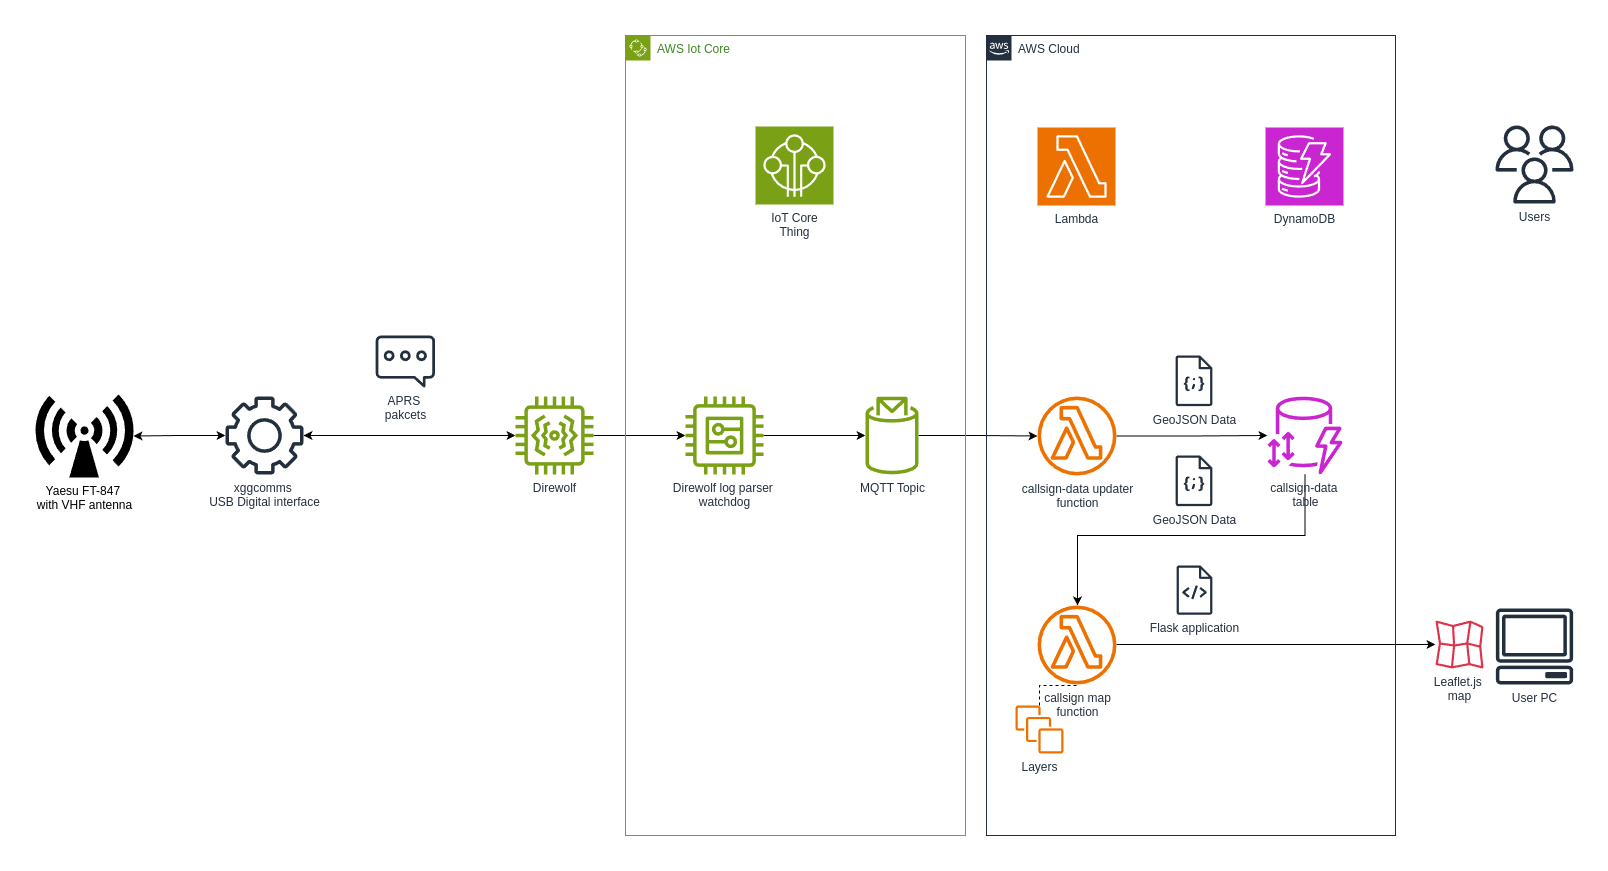
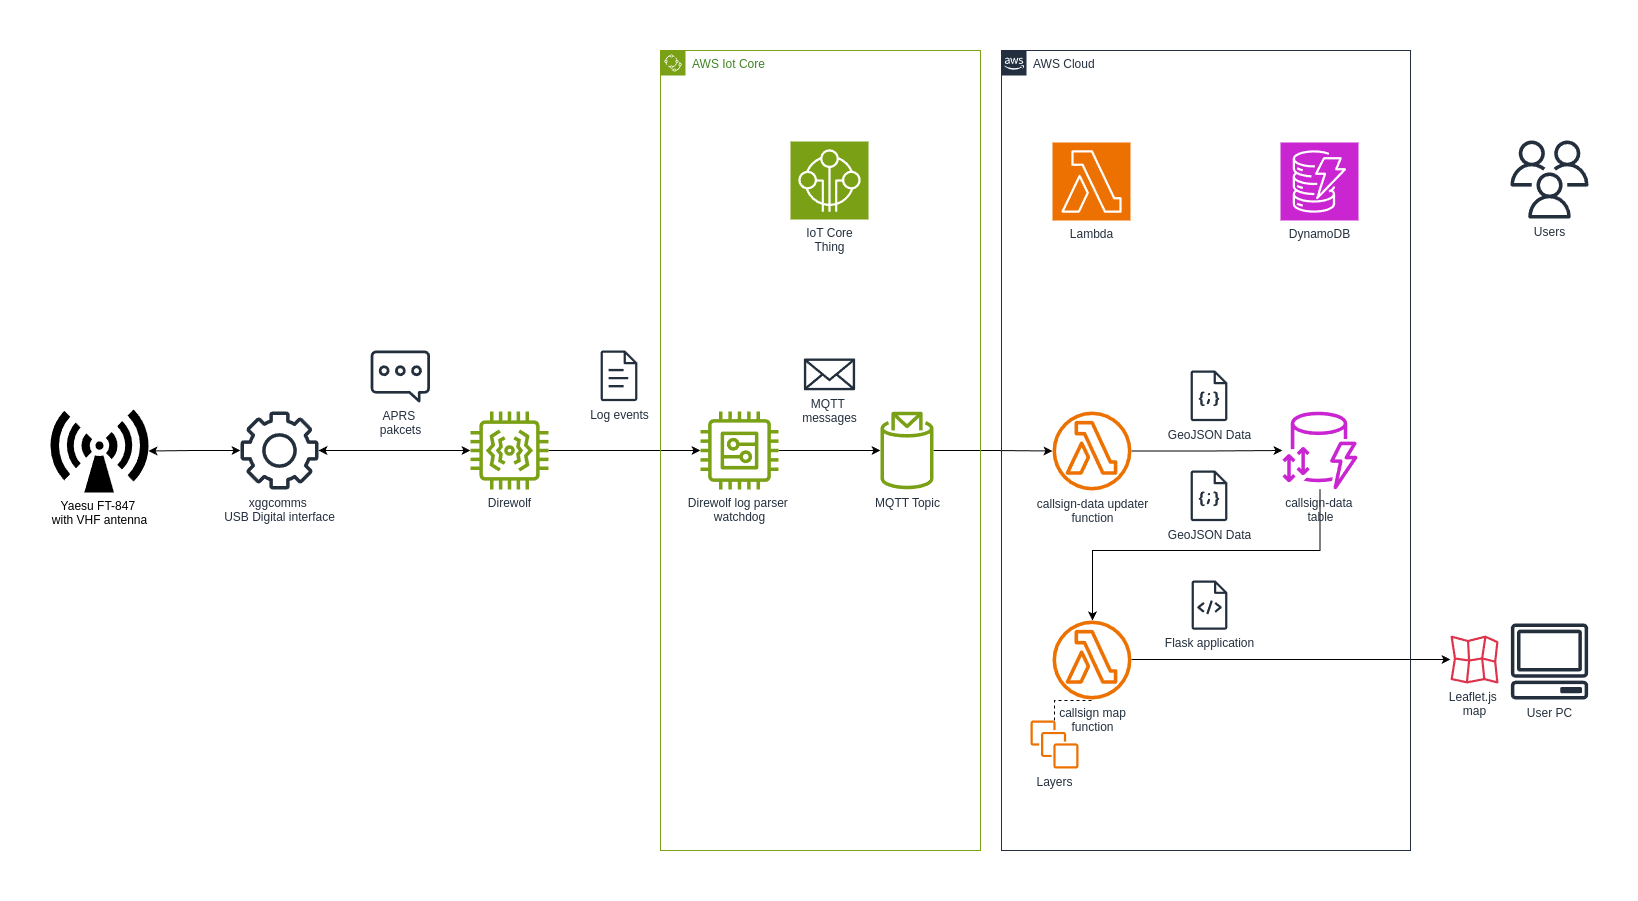
revised architecture drawing
added log file icon, mqtt message icon, modifications to readme file

diff --git a/README.md b/README.md
@@ -14,12 +14,25 @@ As it is seen on the diagram, the whole project can be separated to three main a
 
 **I. Radio-to-PC connection.**
  
-This section of the infrastructure is the device which provides us with a relatively continuous stream of data. One of the radios I own is an old **Yaesu FT-847** which I've inherited from HA7WJ *(SK)*. The radio is connected to a VHF fiberglass pole antenna, which is currently mounted on the balcony. 
+This section of the infrastructure is the device which provides us with a relatively continuous stream of data. The radio is connected to a VHF fiberglass pole antenna, which is currently mounted on the balcony. As this location is on a small hill overlooking the Danube and the northern section of the capital, it should give us relatively good coverage in the south / south-east directon where the signal are not blocked by elements of the Pilis mountain range. 
+![info](https://raw.githubusercontent.com/ThomasFarmer/Direwolf-data-collection/refs/heads/main/doc/radio-antenna.png)
 
-I've set the radio to send and recieve on **144.800 MHz**, which is the designated frequency for **APRS** data traffic in the European region. The radio is also relaying 
-the data stream to the **Digimode USB interface** made by [xggcomms](https://xggcomms.com/).
+For APRS data traffic, we need to set the radio to **144.800 MHz**, which is the designated frequency for **APRS** data traffic in the European region. The radio is also relaying 
+the data stream to the **Digimode USB interface** made by [xggcomms](https://xggcomms.com/). Connecting the device should not be difficult, as it is specifically made to interface this Yeasu radio series. 
 
-The PC connected to the radio is an old desktop computer currently running Linux Mint. The system has a copy of  [Direwolf](https://github.com/wb2osz/direwolf) installed, which is one of the key requirements of this project. 
+Setting up the radio connection:
+- Connect the audio jacks to the soundcard's microphone and sound output ports.
+- Connect the USB connector to one of the USB ports on the PC, this is how most radio-related software products re able be able to control the radio remotely.
+- Connect our CAT serial port to the corresponding port on the back of the radio. 
+- Connect the PKT jack to the corresponding port on the back of the radio.
+- Connect the Data in/out jack to the corresponding port on the back of the radio.
+- Make sure that the PC has the required [drivers](https://ftdichip.com/drivers/d2xx-drivers/) installed to be able to communicate properly with the USB interface.
+![info](https://raw.githubusercontent.com/ThomasFarmer/Direwolf-data-collection/refs/heads/main/doc/radio-conn.png)
+
+After establishing the hardware connection, the computer tasked with interpreting digital traffic has to have the some sort of software to do so. In our case, the PC connected to the radio is an old desktop computer currently running Linux Mint. The system has a copy of [Direwolf](https://github.com/wb2osz/direwolf) installed, which is one of the key requirements of this project. Direwolf is a modern, software based TNC (Terminal Node Controller) which allows our APRS packets to be transcribed from analoge sound format into something more comprehensible for our purposes. 
+Normally we can connect other APRS monitoring applications through a serial port connection, such as [YAAC](https://www.ka2ddo.org/ka2ddo/YAAC.html) to our running Direwolf instance, but the purpose of this project is to "simulate" data collection from data log collection, so instead of the normal way, our IoT application will monitor the log files produced by direwolf, and we will only use YAAC (or the [aprs.fi](www.aprs.fi) service) to check if the collected data is in fact accurate.
+
+
 
 **II. IoT Core deployment.**
 
